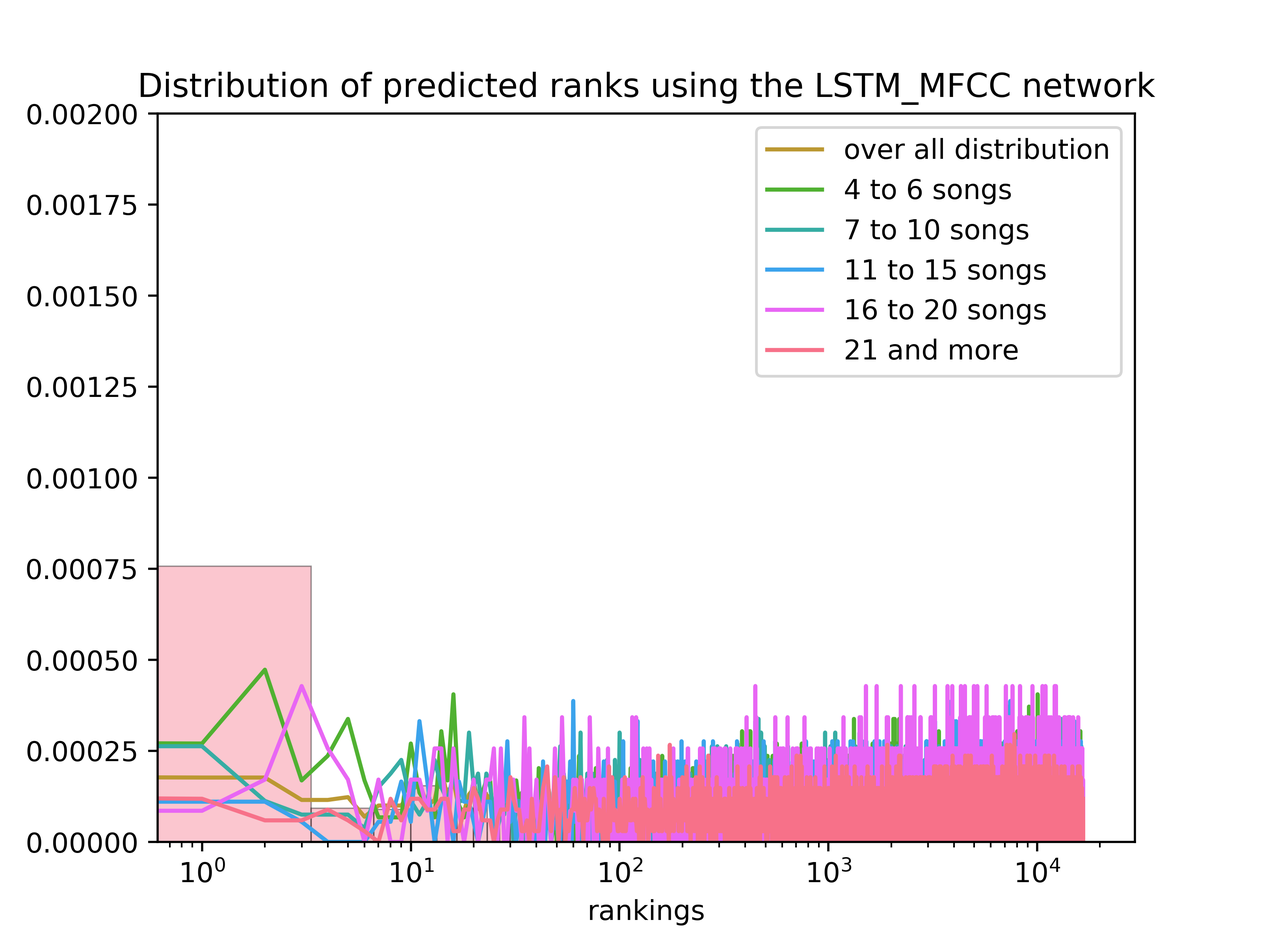
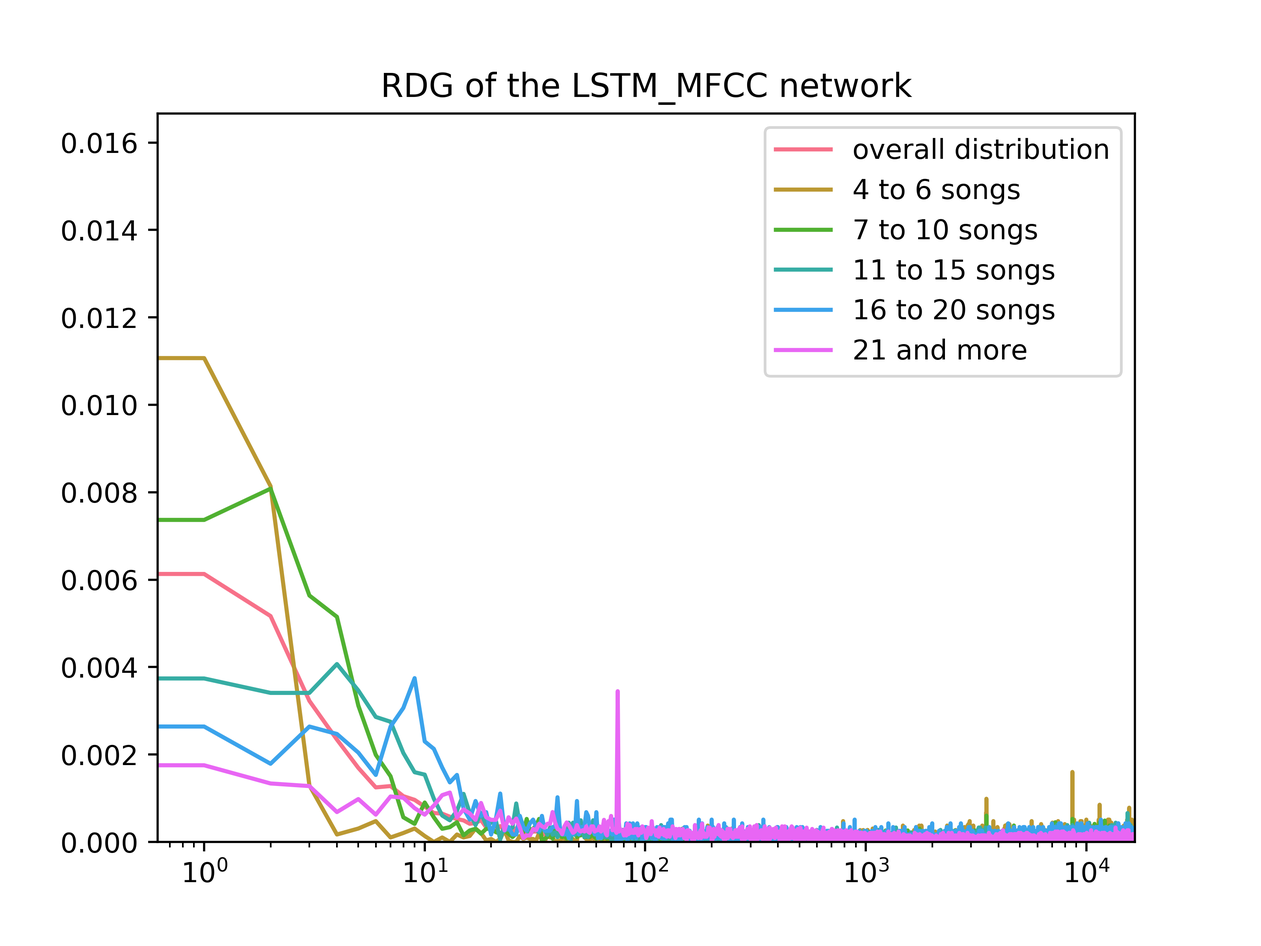
Updates from Overleaf

diff --git a/en/chap05.tex b/en/chap05.tex
@@ -20,7 +20,7 @@ Even though the whole idea of this thesis is to approach recommendation more loo
 \subsection{Evaluation measures}
 To test the wanted features described in the section above we performed evaluation as follows. \\
 Our dataset contains 11123 playlists that were used to evaluate our algorithms. We chose to evaluate our algorithms only on playlists of length at least four. For each method, we did a 5-cross-validation where in a validation epoch, every playlists $p_i$ was divided into two parts a training part $p_{i_{train}}$ and a testing part $p_{i_{test}}$ with an approximately 80:20 ratio. A higher priority was set on the fact that the test part always had to contain at least one entry (meaning that for playlists of length 2, the ratio would be 50:50). \\
-Afterwards for each song $ s_k $ from our song dataset $S$, the similarity of the whole $p_{i_{train}}$ to $s_k$ which we denote as $ sim(p_i, s_k) $ was calculated as $sim(p_i, s_k) =$ $\sum_{s_j\in{p_i{_{train}}}} cos_sim(s_i, s_j) $ where $ i \neq j$ and $cos_sim$ is the cosine similarity as defined by Python scikit-learn package. These similarities were then sorted and it was determined at what position the songs from $p_{i_{test}} $ that actually belong to the playlist came. \\
+Afterwards for each song $ s_k $ from our song dataset $S$, the similarity of the whole $p_{i_{train}}$ to $s_k$ which we denote as $ sim(p_i, s_k) $ was calculated as $$ sim(p_i, s_k) =\sum_{s_j\in{p_i{_{train}}}} cos\_sim(s_i, s_j) $$ where $ i \neq j$ and $cos_sim$ is the cosine similarity as defined by Python scikit-learn package. These similarities were then sorted and it was determined at what position the songs from $p_{i_{test}} $ that actually belong to the playlist came. \\
 These positions were then used to calculate multiple evaluation measures used to assess how well does each algorithm predict the missing part of a users playlist. For this we chose the following for methods:
 \begin{itemize}
     \item Recall at 10 (= \textbf{R@10}) defined as the number of songs from $p_{i_{test}} $ that placed in the top ten most similar songs.
@@ -35,7 +35,24 @@ These positions were then used to calculate multiple evaluation measures used to
     is the ideal discounted cumulative gain at r
     where $r$ is in our case the number of songs that had to be predicted, the $rel_i$, meaning relevance, is the same for all songs as all songs in one playlists have the same relevance and $|REL|$ is the list of relevant items (in our case the songs from $p_{test}$).
     \item Average rank of a song from the $p_{i_{test}}$ set $ \boldsymbol{ (= \overline{rank})} $ which we included after the first four mentioned did not really meet our expectations.
-    \item A graph plotting the distribution of rankings of songs from the test part of each playlists which we called the \textit{RDG} (=\textit{rank distribution graph}). We summed the number of songs from $p_test$ to which each individual rank from 1 to 16594 and divided it by the number of all songs that were in a testing part of some playlist. So for example if we had two playlists both with two songs from $p_{test}$ and our method assigned ranks 30 and 2900 to the $p_{test}$ songs from the first playlist and 2900 and 4872 to those from the second playlists, our graph would plot the values 0.25 for rank 30, 0.5 for rank 2900 and 0.25 for rank 4872 and 0 for the rest of the ranks. We did this for all playlists together but we also plotted the distributions for chosen playlist lengths separately to see if our predictions improve for longer playlists as we were hoping for. The x-scale of the \textit{RDG} was scaled logarithmicaly as we are much more interested in what is going on on the first 100 positions than what is goint on in the middle or towards the end. 
+    \item A graph plotting the distribution of rankings of songs from the test part of each playlists which we called the \textit{RDG} (=\textit{rank distribution graph}). We summed the number of songs from $p_test$ to which each individual rank from 1 to 16594 and divided it by the number of all songs that were in a testing part of some playlist. So for example if we had two playlists both with two songs from $p_{test}$ and our method assigned ranks 30 and 2900 to the $p_{test}$ songs from the first playlist and 2900 and 4872 to those from the second playlists, our graph would plot the values 0.25 for rank 30, 0.5 for rank 2900 and 0.25 for rank 4872 and 0 for the rest of the ranks. We did this for all playlists together but we also plotted the distributions for chosen playlist lengths separately to see if our predictions improve for longer playlists as we were hoping for. The x-scale of the \textit{RDG} was scaled logarithmicaly as we are much more interested in what is going on on the first 100 positions than what is goint on in the middle or towards the end. \\
+After running this evaluation, we noticed that for most of our similarity methods, the positions for songs from $p_{i_{test}} $ that belonged to a short playlist were higher up, than those from long playlists especially for the first three ranks. Therefore, we changed our evaluation method a little bit. We set a threshold for each similarity method, and if the similarity between two songs was smaller than this threshold, we set the similarity to 0. This means, that our new similarity function $cos\_sim_t(s_i,s_j)$ is defined as follows: \[   
+cos\_sim_t(s_i,s_j) = 
+     \begin{cases}
+       \text{$ cos\_sim(s_i,s_j) $} &\quad\text{if $ cos\_sim(s_i,s_j)  >= threshold$}\\
+       \text{$ 0 $} &\quad\text{if $ cos\_sim(s_i,s_j)  < threshold$}\\
+     \end{cases}
+\]
+ The threshold was chosen as $ 51 * |S| $ where $ S $ is our dataset which is 846294. The most similar song is always the song itself, so it leaves us with approximately 50 most similar songs to each song. \\
+The results described in the section here are all from the evaluation with threshold. If the evaluation without threshold was better for a method, it is mentioned in the method's section. The reason to use the threshold-evaluation is also the fact, that we use the thresholds to calculate similarity in our application too. Not only because of the better results but also because of the fact, that it dramatically reduces the number of similarities that have to be stored in our database.\\
+To give an idea about how the results changed with applying the threshold, lets take a look at the plots in Figure \ref{fig:method_comparison}. 
+
+\begin{figure}[hbt!]
+    \centering
+	\includegraphics[width=120mm]{./img/threshold_comparison.png}
+	\caption{The differences for methods with and without the threshold.}
+	\label{fig:method_comparison}
+\end{figure}
     
 \end{itemize}
 We calculated each of the first four measures for each playlist and then averaged over the whole playlist dataset. Every method section contains a table with the four measure averages and a graph. Both are accompanied with a short summary of the most obvious observations
@@ -61,7 +78,7 @@ The song representation were vectors of length 40165 which is the number of diff
 
 The results of the TF-idf method were poor overall when it comes to satisfying the properties of recommender systems.In comparison to our other methods however, they placed well above average. \\
 
-\begin{table}[h!]
+\begin{table}[hbt!]
 \centering
 \renewcommand{\arraystretch}{1.5}
 \begin{tabu} to 1\textwidth {| c || X[c] | X[c] | X[c] | X[c] | X[c] | }
@@ -81,18 +98,18 @@ The results of the TF-idf method were poor overall when it comes to satisfying t
 When looking at the number in \ref{table:1} we can see that only 4.3\% of songs that were in our $p_{test}$ sets ranked in the first ten, 5\% in the first fifty and 5.6\% in the first hundred. The average rank of a song from our $p_{test}$ was 7553 which is quite close to the middle. This does not really satisfy our goals that we set to achieve in recommender systems. We also crated a \textit{RDG} as one can see in Figure \ref{fig:tf_idf_distribution}. It appears that according to the distribution, a song is more likely to end up in the first 10-100 songs than it is at the end. One could claim that this distribution is not random and favors ranks at the beginning, however not as strongly as we would want.\\
 Another thing to notice in \ref{fig:tf_idf_distribution} is that there is a general trend for the Tf-idf method to perform worse on playlists with a greater length. This is the complete opposite of what we desire. One can see, that for playlists with length from 4 to 6, the ranks predicted for the missing songs were more likely to be higher than for playlists of length 21 and longer. The pink bar shows the overall distribution over 5000 bins over the dataset. 
 
-\begin{figure}[h]
+\begin{figure}[hbt!]
 \centering
 \begin{minipage}{.5\textwidth}
   \centering
   \includegraphics[width=1\linewidth]{./img/tf_idf_graph.png}
-  \captionof{Distribution of ranks of songs from the $p_{test}$ set the tf-idf method assigned them.}
+  \caption{Distribution of ranks of songs from the $p_{test}$ set the tf-idf method assigned them.}
   \label{fig:tf_idf_distribution}
 \end{minipage}%
 \begin{minipage}{.5\textwidth}
   \centering
   \includegraphics[width=1\linewidth]{./img/pca_tf_idf_graph.png}
-  \captionof{Distribution of ranks of songs from the $p_{test}$ for tf-idf vectors as input into PCA}
+  \caption{Distribution of ranks of songs from the $p_{test}$ for tf-idf vectors as input into PCA}
   \label{fig:pca_tf_idf_distribution}
 \end{minipage}
 \end{figure}
@@ -120,13 +137,13 @@ The input for our W2V model was the same as for the Tf-idf method.
 \subsubsection{Training}
 In the case of Word2Vec, we did not perform any training. Instead, we used a pre-trained W2V model from Google (the first 200000 words which covered all the words in our lyric dataset). If there was a word in a song that is not in our subset added in the web application, would be ignored.
 
-\subsubsectio{Output}
+\subsubsection{Output}
 The output for a document of the Google model is a vector of fixed length 300. This is significantly lower than the Tf-idf vector.
 
-\subsubsectio{Results}
+\subsubsection{Results}
 The small size of the vectors being produced by the W2V method are a significant advantage of this method. However the results it yielded make it below average even compared to our other methods.
 
-\begin{table}[h!]
+\begin{table}[hbt!]
 \centering
 \renewcommand{\arraystretch}{1.5}
 \begin{tabu} to 1\textwidth { | c || X[c] | X[c] | X[c] | X[c] | X[c] |}
@@ -144,7 +161,7 @@ The small size of the vectors being produced by the W2V method are a significant
 The table shows much lower numbers than for the Tf-idf method. Only 0.7\% of songs from the $ p_{test} $ set ranked in the top 10, 1.3\% in top 50 and 2.0\% in top 100. The average rank was 7682. That does not seem to be as bad compared to Tf-idf so it suggests that the songs did not place at the last ranks, but also not at the first ranks. \\
 When looking at the distribution graph, it is very clear that the gap here between the accuracy of predicted ranks for short and longer playlists is huge. Although not great, it performs much better for short playlists. For playlists as short as 7, the performance drops significantly and it appears that for playlists with length 11 and more, the trend is opposite than what we would want, meaning, that it is more likely that a song from the $p_{test}$ set does ranks between the last 1000 than between the first 1000 if the rank is predicted based on a playlists of length at least 11.
 
-\begin{figure}[h]
+\begin{figure}[hbt!]
     \centering
 	\includegraphics[width=120mm]{./img/w2v_graph.png}
 	\caption{Distribution of ranks of songs from the test set the w2v method assigned them.}
@@ -161,7 +178,7 @@ We build a self organizing map with a grid size 5 times our dataset size (16594)
 \subsubsection{Output}
 The output representation for each song was a vector of length two. The whole dataset then could be displayed on a 2D map. 
 When we then tried to display the map with all the songs, the size of the image would have to be immense so that all 16594 songs would be recognizable. The problem was that there were many songs to display on the map and the titles overlapped. Because of that, we decided to randomly select 20 playlists and show where the different songs that belong to each playlist placed on the map. Each playlist has its own color. This map for the W2V input is depicted in \ref{fig:som_map}. Obviously, the playlists do not really form any visible clusters.
-\begin{figure}[h]
+\begin{figure}[hbt!]
     \centering
 	\includegraphics[width=140mm]{./img/som_map.png}
 	\caption{The location of different songs from 20 randomly selected playlists on the map created by SOM. Each playlist has its own colour.}
@@ -170,7 +187,7 @@ When we then tried to display the map with all the songs, the size of the image 
 \subsubsection{Results}
 The fact that the playlists do not form clusters is also supported by the fact that the overall results for the self organizing map algorithm are quite poor. Actually it is the worse method that we implemented and our hope to improve the results of W2V were not fulfilled.
 
-\begin{table}[h!]
+\begin{table}[hbt!]
 \centering
 \renewcommand{\arraystretch}{1.5}
 \begin{tabu} to 1\textwidth { | c || X[c] | X[c] | X[c] | X[c] | X[c] |}
@@ -180,14 +197,14 @@ The fact that the playlists do not form clusters is also supported by the fact t
  \hline
  SOM with W2V & 0.00084 & 0.0038 & 0.00664 & 0.00192 & 8152 \\
  \hline
- SOM wiht PCA_Tf-idf & 0.000435 & 0.002084 & 0.004621 & 0.001254 & 8243 \\
+ SOM wiht PCA\_Tf-idf & 0.000435 & 0.002084 & 0.004621 & 0.001254 & 8243 \\
  \hline
 \end{tabu} \\
 \caption{Table summarizing average SOM values averaged over the 5 cross validations}
 \label{table:som}
 \end{table}
 The distribution graph of the SOM\_W2V method clearly shows, that the distribution of ranks is random or worse which is also suggested by the fact that the average rank is 8152 which almost in the middle of 16594. The main reason for the failure of this method is unclear but it is possible that the data from the W2V vectors that already contain too little information for the SOM network to be able to cluster data based on it.  But since we recieved even worse results for the SOM\_Tf-id we are more inclined to another possibility which is, that the SOM network is not be able to provide satisfying results because two dimensions are simply too little to represent the whole complexity of the input data.
-\begin{figure}[h]
+\begin{figure}[hbt!]
     \centering
 	\includegraphics[width=120mm]{./img/som_w2v_graph.png}
 	\caption{Distribution of ranks of songs from the test set the SOM method assigned them.}
@@ -209,8 +226,8 @@ The input for mel spectrograms was the 15 second long audio described in \ref{ss
 The mel-spectrograms we got after transforming a 15 second long audio with 320 Mel frequencies bands was a matrix of size 408x320 which when flattened is a vector of size 130560. This turned out to be too long to implement in our application, however because we did not realize that at first, we tested this method and got the following results. \\
 As can be seen in \ref{table:mel_spec_methods} 3.7\% of songs ended up between top ten predictions, 4.3\% in top 50 and 4.7\% in the top 100. These results are actually better than any other method using mel-spectrograms as input except of PCA. It beats both neural network architectures with mel-spectrogram input. 
 
-\subsubsectio{Results}
-\begin{table}[h!]
+\subsubsection{Results}
+\begin{table}[hbt!]
 \centering
 \renewcommand{\arraystretch}{1.5}
 \begin{tabu} to 1\textwidth { | c || c | c | c | c | c |}
@@ -220,13 +237,13 @@ As can be seen in \ref{table:mel_spec_methods} 3.7\% of songs ended up between t
  \hline
  Raw mel spectrograms & 0.03696 & 0.04275 & 0.0473 & 0.03063 & 7604 \\
  \hline
- PCA_mel_5715 & 0.05243 & 0.06153 & 0.06737 & 0.04300 & 6851 \\
+ PCA\_mel\_5715 & 0.05243 & 0.06153 & 0.06737 & 0.04300 & 6851 \\
  \hline
- PCA_mel_320 & 0.00053 & 0.00196 & 0.00633 & 0.00155 & 8357 \\
+ PCA\_mel\_320 & 0.00053 & 0.00196 & 0.00633 & 0.00155 & 8357 \\
  \hline
- GRU_mel  & 0.03623 & 0.04336 & 0.04870 & 0.03119 & 7601 \\
+ GRU\_mel  & 0.03623 & 0.04336 & 0.04870 & 0.03119 & 7601 \\
  \hline
- LSTM_mel & 0.01368 & 0.02028 & 0.02579 & 0.01423 & 7861\\
+ LSTM\_mel & 0.01368 & 0.02028 & 0.02579 & 0.01423 & 7861\\
  \hline
 \end{tabu} \\
 \caption{Table summarizing average rank values for all methods with mel-spectrogram input averaged over the 5 cross validations}
@@ -235,7 +252,7 @@ As can be seen in \ref{table:mel_spec_methods} 3.7\% of songs ended up between t
   
 The patterns observed in \ref{fig:mel_graph} which shows the distribution of ranks for raw mel-spectrograms is similar to all other methods we are studying (except of those that appear to be random such as SOM). The ranking is better when predicting ranks of songs from shorter playlists. 
 
-\begin{figure}[h]
+\begin{figure}[hbt!]
     \centering
 	\includegraphics[width=120mm]{./img/mel_graph.png}
 	\caption{Distribution of ranks of songs from the test with their similairity defined as cosine distance between mel-spectrograms.}
@@ -248,7 +265,7 @@ Our 15 second audios were fed as input into the texttt{librosa.feature.mfcc()} f
 \subsubsection{Results}
 
 The results of MFCCs are quite poor even compared to our other methods. Only 0.4\% of songs missing in our playlists rank betwen the top 10, 0.9\% in the top 50 and 1.4\% in the top 100. However as can be seen in table \ref{table:mfcc_methods} it is better than when using mfc coefficients with our LSTM network.
-\begin{table}[h!]
+\begin{table}[hbt!]
 \centering
 \renewcommand{\arraystretch}{1.5}
 \begin{tabu} to 1\textwidth { | c || X[c] | X[c] | c | X[c] | X[c] |}
@@ -269,7 +286,7 @@ The results of MFCCs are quite poor even compared to our other methods. Only 0.4
 \end{table}
 
  When looking at our traditional distribution graph, we again observe the a lower probability of good song rankings as the length of playlists increases. Again completely against what we hope for. 
-\begin{figure}[h]
+\begin{figure}[hbt!]
     \centering
 	\includegraphics[width=120mm]{./img/mfcc_graph.png}
 	\caption{Distribution of ranks of songs from the test set the MFCC method assigned them.}
@@ -285,12 +302,12 @@ We used spectrograms as described in \ref{ssec:audio_prep} as input for our PCA.
 \subsubsection{Training}
 Training proved to be a little bit challenging with input vectors of length 900048. As the whole (16594x900048) matrix did not fit into the PCA at once. So instead of using \texttt{sklearn.decomposition.PCA} we turned to a PCA with the possibility to train the PCA in batches. This kind of PCA is also provided by \textt{skearn} in the \texttt{sklearn.decomposition.incrementalPCA} module. \\ Our batch size was 1106. Again, when we tried to increase it, we got a memory error. This was a little inconvenient as for the PCA the maximum number of components is $min(n\_samples, n\_features)$. In our case, $n\_samples$ was only 1106 components which explained about 57\% of the dataset's variance.
 
-\subsubsectio{Output}
+\subsubsection{Output}
 Our output were vectors of length 1106 which we acquired when taking the trained incremental PCA model and calling \texttt{tranform()} with the spectrogram as a parameter.
 
 \subsubsection{Results}
 
-\begin{table}[h!]
+\begin{table}[hbt!]
 \centering
 \renewcommand{\arraystretch}{1.5}
 \begin{tabu} to 1\textwidth { | c || c | c | c | c | c |}
@@ -316,18 +333,18 @@ Our output were vectors of length 1106 which we acquired when taking the trained
 \end{table}
  
 
-\begin{figure}[h!]
+\begin{figure}[hbt!]
 \centering
 \begin{minipage}{.5\textwidth}
   \centering
   \includegraphics[width=1\linewidth]{./img/pca_spec_1106_graph.png}
-  \captionof{Distribution of ranks of songs from the $p_{test}$ set the spectrograms method assigned them.}
+  \caption{Distribution of ranks of songs from the $p_{test}$ set the spectrograms method assigned them.}
   \label{fig:pca_spec_1106_distribution}
 \end{minipage}%
 \begin{minipage}{.5\textwidth}
   \centering
   \includegraphics[width=1\linewidth]{./img/pca_spec_320_graph.png}
-  \captionof{Distribution of ranks of songs from the $p_{test}$ for spectrograms vectors as input into PCA}
+  \caption{Distribution of ranks of songs from the $p_{test}$ for spectrograms vectors as input into PCA}
   \label{fig:pca_spec_320_distribution}
 \end{minipage}
 \end{figure}
@@ -341,7 +358,7 @@ The input for our Mel-PCA were mel-spectrograms from \ref{ssec:audio_prep} which
 
 \subsubsection{Training}
 Unlike with the spectrograms, mel-spectrograms fit into the memory so the PCA was able to train with the whole dataset at once. This allowed us again to find out what number of components explaines 90\% of the variance ratio and to use it. We found that 90\% of variance is explained by 5715 components which is also what we used to train our first model. \\
-We were quite pleased by the results as it is the best method that we came up with. Therefore we were quite hopeful when reducing the dimension even more to 320 as we did with PCA on spectrograms. We again created two models, one is called the $Mel\_PCA_{5715}$ the other the $Mel\_PCA_{320}$. 
+We were quite pleased by the results as it is the best method that we came up with. Therefore we were quite hopeful when reducing the dimension even more to 320 as we did with PCA on spectrograms. We again created two models, one is called the $Mel\_PCA\_5715$ the other the $Mel\_PCA\_320$. 
 
 \subsubsection{Output}
 Our output for the bigger model was a vector of length 5715, for the smaller model, it was a vector of length 320.
@@ -350,18 +367,18 @@ Our output for the bigger model was a vector of length 5715, for the smaller mod
 To our disappointment, the more radical dimension reduction did not improve the performance of the PCA\_mel method. It actually worsened the results significantly as can be observed in Table \ref{table:mel_spec_methods}. 
 
 The \ref{fig:pca_mel_comparison_graps} illustrates the immense performance drop between a PCA\_mel\_5715 components and a PCA\_mel\_320. Another thing to notice here though which only applies to the Mel\_PCA\_{5715} is that the drop of top rankings for longer playlists is not quite significant compared to all the other methods we tested. We still observe the trend of worse results for longer playlists, however, it is not as significant compared to for example the the method with raw Mel-spectrograms.
-\begin{figure}[h!]
+\begin{figure}[hbt!]
 \centering
 \begin{minipage}{.5\textwidth}
   \centering
   \includegraphics[width=1\linewidth]{./img/pca_mel_5715_graph.png}
-  \captionof{Distribution of ranks of songs from the $p_{test}$ set the spectrogram method assigned them.}
+  \caption{Distribution of ranks of songs from the $p_{test}$ set the spectrogram method assigned them.}
   \label{fig:pca_mel_5715_distribution}
 \end{minipage}%
 \begin{minipage}{.5\textwidth}
   \centering
   \includegraphics[width=1\linewidth]{./img/pca_mel_320_graph.png}
-  \captionof{Distribution of ranks of songs from the $p_{test}$ for spectrogram vectors as input into PCA}
+  \caption{Distribution of ranks of songs from the $p_{test}$ for spectrogram vectors as input into PCA}
   \label{fig:pca_mel_320_distribution}
 \end{minipage}
 \end{figure}\label{fig:pca_mel_comparison_graps}
@@ -379,18 +396,18 @@ For the purposes of our work, we only used the autoencoder part. Unlike them, in
 
 We created two architectures. One with two GRU layers at the beginning as the encoder and one Bidirectional layer as the decoder. This follows the paper. We also decided to create another architecture with LSTM layers instead of GRU layers even though \citeauthor{inproceedings_RNNs} found in their work that the additional complexity did not yield better results. Both architectures can be seen in Figure \ref{fig:nn_architectures} \\
 
-\begin{figure}[h!]
+\begin{figure}[hbt!]
 \centering
 \begin{minipage}{.5\textwidth}
   \centering
   \includegraphics[width=1\linewidth]{./img/gru_architecture.png}
-  \captionof{The general architecture of our GRU neural networks}
+  \caption{The general architecture of our GRU neural networks}
   \label{fig:gru_architecture}
 \end{minipage}%
 \begin{minipage}{.5\textwidth}
   \centering
   \includegraphics[width=1\linewidth]{./img/lstm_architecture.png}
-  \captionof{The general architecture of our LSTM neural networks}
+  \caption{The general architecture of our LSTM neural networks}
   \label{fig:lstm_architecture}
 \end{minipage}
 \end{figure}\label{fig:nn_architectures}
@@ -411,24 +428,24 @@ One important thing to note here is that these kind of networks that process seq
 We trained two GRU spectrogram networks with variable output vector lengths. We decided to base our vector length on the PCA explained variance ratio. For spectrograms however, we only found out that 1106 explains 56\%of variance. Therefore, we took the information from the mel-spectrogram PCA where 5715 explains 90\% of variance and did a simple calculation $$ l(mel\_spec_{transformed})/l(mel\_spec) = l(spec_{transformed})/l(spec) $$. To keep the proportional reduction same as for mel-spectrograms and the output length of 5715 where $l(x)$ is the length of either the spectrogram or mel-spectrogram flattened. This would mean an output vector length of almost 40000. We decided that it would be too much for any practical use in our web application and reduced it to 20400 which at that point we thought could be potentially used. The shorter vectors used as encodings of our spectrograms were of length 5712. This inspired by the Mel-spectrogram PCA as we thought that the neural network could mimic the Mel-frequency reduction as well as additional reduction. \\
 In our base paper, they trained their autoencoders for 50 epochs using batch sizes of 64. We found this to be insufficient especially with our learning rate reduction. For GRU networks with spectrograms we set the number of epochs to 100 and the batch size to 295 (for higher batch values we got memory errors). 
 
-\subsubsectiom{Results}
+\subsubsection{Results}
 As can be observed in Figure \ref{fig:all_model_training} the loss is basically constant for both GRU networks with spectrogram input (the GRU\_spec\_20400 is hidden behind the orange line of GRU\_spec\_5712 as their progress or rather the lack of it is the same). This means, that the network did not really improve for some reason. Therefore it is not suprising that the results of this method are not between our best ones.
 
 We can see in Table \ref{table:spec_methods} that only 0.2\% of songs was ranked in the top 10, 0.5\% in the top 50 and 1\% in the top 100 for the longer GRU spectrogram model. For the short GRU spectrogram model, the results are a slightly better with 0.2\% for the top ten songs 0.6\% ranked in the top 50 and a little over 1\% ranked in the top 100. The ranking improvement is just very small and almost non-existent when rounding the numbers to two decimal places and then converting them into percentages. \\
 The distributions depicted in Figure \ref{fig:gru_spec_distributions} of both GRU\_specs is are similar too. The trend for worse ranks for songs from longer playlists is apparent in both method graphs but it is not as obvious as in methods that have over all better results.
 
-\begin{figure}[h!]
+\begin{figure}[hbt!]
 \centering
 \begin{minipage}{.5\textwidth}
   \centering
   \includegraphics[width=1\linewidth]{./img/gru_spec_20400_graph.png}
-  \captionof{The distribution of predicted ranks using the long GRU spec encodings.}
+  \caption{The distribution of predicted ranks using the long GRU spec encodings.}
   \label{fig:gru_spec_20400_distribution}
 \end{minipage}%
 \begin{minipage}{.5\textwidth}
   \centering
   \includegraphics[width=1\linewidth]{./img/gru_spec_5712_graph.png}
-  \captionof{The distribution of predicted ranks using the short GRU spec encodings.}
+  \caption{The distribution of predicted ranks using the short GRU spec encodings.}
   \label{fig:gru_spec_5712_distribution}
 \end{minipage}
 \end{figure}\label{fig:gru_spec_distributions}
@@ -443,18 +460,18 @@ Unlike the GRU model training which showed almost no improvement even after 100 
 The higher training improvement correlates with better results for the LSTM\_spec methods. In Table \ref{table:spec_methods} are both the results of the LSTM\_spec models. They are better than those of the GRU\_spec models. \\
 A thing worth noting here is that with the shorter encoding vector the results worsened. Definitely more dramatically than how the GRU\_spec results imporoved. The values in Table \ref{table:spec_methods} and distribution in Figure \ref{fig:lstm_spec_distributions} visualize the difference clearly, especially when it comes to songs from short playlists where the difference most apparent.
 
-\begin{figure}[h!]
+\begin{figure}[hbt!]
 \centering
 \begin{minipage}{.5\textwidth}
   \centering
   \includegraphics[width=1\linewidth]{./img/lstm_spec_20400_graph.png}
-  \captionof{The distribution of predicted ranks using the long GRU spec encodings.}
+  \caption{The distribution of predicted ranks using the long GRU spec encodings.}
   \label{fig:lstm_spec_20400_distribution}
 \end{minipage}%
 \begin{minipage}{.5\textwidth}
   \centering
   \includegraphics[width=1\linewidth]{./img/lstm_spec_5712_graph.png}
-  \captionof{The distribution of predicted ranks using the short GRU spec encodings.}
+  \caption{The distribution of predicted ranks using the short GRU spec encodings.}
   \label{fig:lstm_spec_5712_distribution}
 \end{minipage}
 \end{figure}\label{fig:lstm_spec_distributions}
@@ -469,18 +486,18 @@ Mel-spectrograms seem to be the best kind of input we have and the GRU\_mel and 
 Table \ref{table:mel_spec_methods} puts recalls and nDGC of our "mel" neural networks into perspective with other "mel" methods.
 As we can see, the GRU\_mel network placed 3.6\% of songs into the top 10, 4.3\% into the top 50 and 4.9\% into the top 100. This is worse than the raw mel-spectrogram method for \textit{R@10} but for \textit{R@50} and \textit{R@100} it shows better results. The GRU\_mel network is almost twice as bad and places as our second worst "mel" method with only 1.4\% of songs in the top 10, 2\% of songs in the top 100 and 2.6\% of songs with assigned ranks in the top 100.
 
-\begin{figure}[h!]
+\begin{figure}[hbt!]
 \centering
 \begin{minipage}{.5\textwidth}
   \centering
   \includegraphics[width=1\linewidth]{./img/gru_mel_graph.png}
-  \captionof{An RDG of the GRU\_mel method}
+  \caption{An RDG of the GRU\_mel method}
   \label{fig:gru_mel_distribution}
 \end{minipage}%
 \begin{minipage}{.5\textwidth}
   \centering
   \includegraphics[width=1\linewidth]{./img/lstm_mel_graph.png}
-  \captionof{An RDG of the LSTM\_mel method}
+  \caption{An RDG of the LSTM\_mel method}
   \label{fig:gru_mel_distribution}
 \end{minipage}
 \end{figure}\label{fig:mel_nn_distributions}
@@ -496,7 +513,7 @@ We trained both architectures with 150 epochs and a batch size of 256 which is t
 The MFCC networks seem to have the biggest potential of improving if they were to be trained for a longer period of time as their plots in Figure \ref{fig:all_model_training} especially the GRU\_MFCC one does not stagnate as much as the other networks. They would however probably never decrease their loss to be as small as for the "mel" networks. \\
 Compared to the raw MFCCs the GRU\_MFCC meant an improvement whereas the LSTM\_MFCC an impairment as the values in \ref{table:mfcc_methods} suggest. The Figure \ref{fig:mfcc_nn_distributions} containing both method's \textit{RDGs} confirms the superiority of the GRU\_MFCC method over the LSTM\_MFCC. What is interesting about the LSTM\_MFCC is the fact, that the ranks for shorter playlists are not as notable as with most other methods like for example the GRU\_MFCC method where the difference is considerable.
 
-\begin{figure}[h!]
+\begin{figure}[hbt!]
 \centering
 \begin{minipage}{.5\textwidth}
   \centering
@@ -522,7 +539,7 @@ We chose the threshold separately for each method as the 846297th biggest simila
 This significantly changed and in many cases improved the performances of our methods. We decided not to include all the new distribution graphs again, \todo{Mohla bych je dat do attachmentu} but we decided to include at least a table comparing the other evaluation measures we chose. \todo{SEM dat table nebo graf? tech novejch metod}.\\
 
 Even with the threshold improvement, our results are still worse than we were hoping for. 
-\begin{figure}[h]
+\begin{figure}[hbt!]
     \centering
 	\includegraphics[width=120mm]{./img/all_training_graphs.png}
 	\caption{The training mean squared error loss values for all the final neural networks we trained.}
